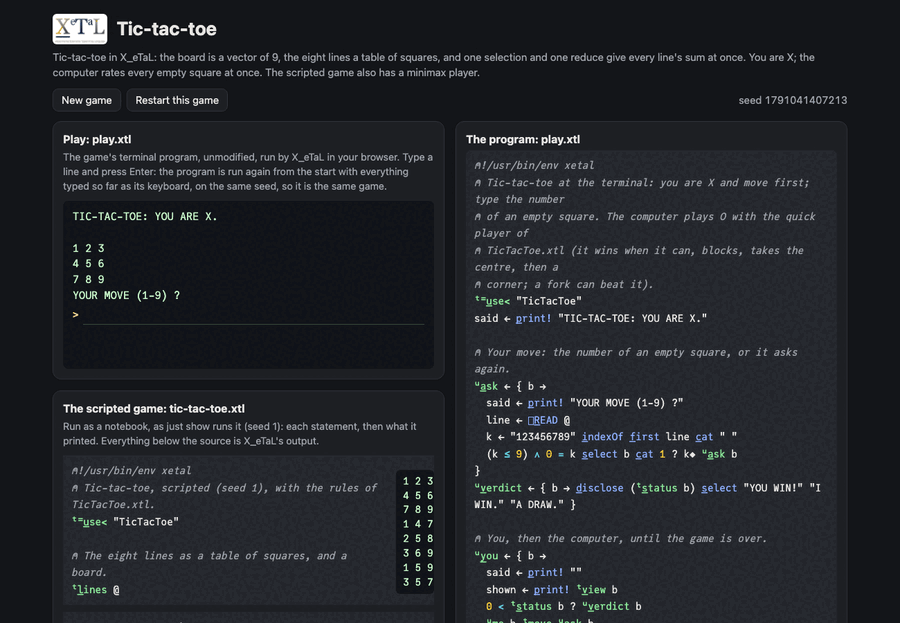
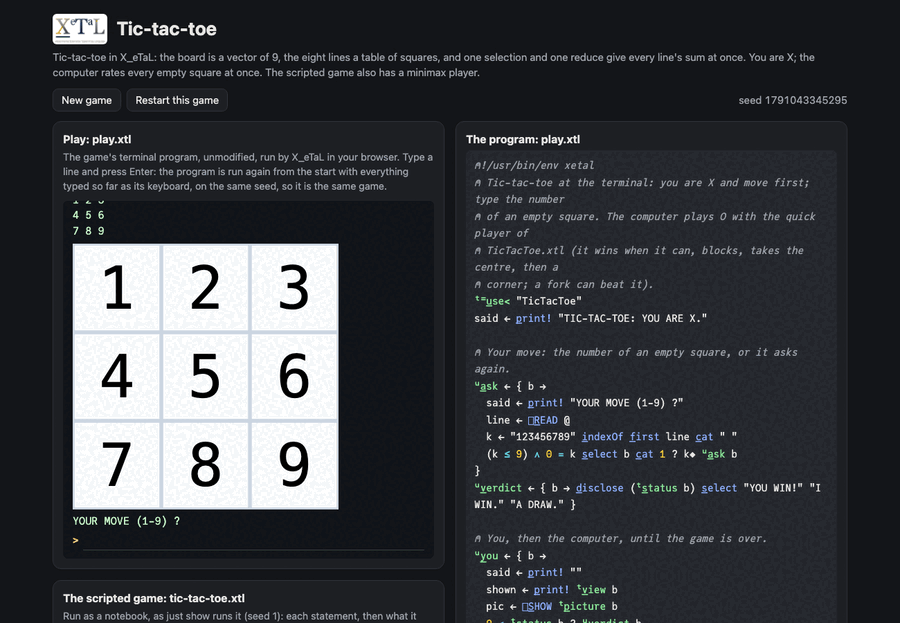
x-pictures: boards as pictures X_eTaL draws
- tic-tac-toe and robot-chase: l:p_icture, []G_RID of the character
  board (marks and empty squares' numbers; .R*PX), shown with []S_HOW
  each turn in play.xtl (and once in tic-tac-toe.xtl): the page draws
  it in the terminal or notebook, the command line writes it to
  work/draw/<slug>/; goldens unchanged but the libraries' export lists
- shared page CSS: pictures scaled up to read (their content is
  X_eTaL's)
- scripts/test-games.sh: the CLI's "drawn PATH" stderr lines (a
  machine's path) are not part of a golden
- tests: the two games' page tests check the pictures are grids of
  characters; the browser test counts pictures and fails a game whose
  play.xtl shows some when none appear
- docs/xetal-asks.md: []G_RID cannot show numbers in cells or choose a
  colour scale (2048, minesweeper counts); boards of numbers stay text
- plan, shell README, game READMEs, CHANGES; pages rebuilt

diff --git a/shared/microscope/microscope.css b/shared/microscope/microscope.css
@@ -136,3 +136,5 @@ canvas.pic.mid { width: min(100%, 260px); }
   font: .9rem/1.45 ui-monospace, "JuliaMono", Menlo, monospace; white-space: pre; overflow-x: auto; }
 /* An empty printed line keeps its height, as in a terminal. */
 .term > div:empty, .nb .out > div:empty { min-height: 1.5em; }
+/* Pictures X_eTaL draws ([]S_HOW) are scaled up to read; their content is X_eTaL's. */
+.term .pic svg, .nb .pic svg { width: min(100%, 384px); height: auto; display: block; }

diff --git a/games/robot-chase/web/tests/page.rs b/games/robot-chase/web/tests/page.rs
@@ -39,3 +39,13 @@ fn a_new_game_waits_for_its_first_line() {
     let t = session(&[(g.library_name, g.library)], g.play, &[], 7);
     assert!(t.waiting && t.error.is_none());
 }
+
+#[test]
+fn the_board_is_also_a_picture_x_etal_draws() {
+    let g = game();
+    let typed: Vec<String> = include_str!("../../expected/play.in").lines().map(str::to_string).collect();
+    let t = session(&[(g.library_name, g.library)], g.play, &typed, 1);
+    let pictures: Vec<&String> = t.lines.iter().filter_map(|l| match l { Line::Picture(svg) => Some(svg), _ => None }).collect();
+    assert!(!pictures.is_empty(), "play.xtl shows the board with []S_HOW");
+    assert!(pictures.iter().all(|svg| svg.starts_with("<svg") && svg.contains("<text")), "a grid of characters");
+}

diff --git a/games/tic-tac-toe/web/tests/page.rs b/games/tic-tac-toe/web/tests/page.rs
@@ -39,3 +39,13 @@ fn a_new_game_waits_for_its_first_line() {
     let t = session(&[(g.library_name, g.library)], g.play, &[], 7);
     assert!(t.waiting && t.error.is_none());
 }
+
+#[test]
+fn the_board_is_also_a_picture_x_etal_draws() {
+    let g = game();
+    let typed: Vec<String> = include_str!("../../expected/play.in").lines().map(str::to_string).collect();
+    let t = session(&[(g.library_name, g.library)], g.play, &typed, 1);
+    let pictures: Vec<&String> = t.lines.iter().filter_map(|l| match l { Line::Picture(svg) => Some(svg), _ => None }).collect();
+    assert!(!pictures.is_empty(), "play.xtl shows the board with []S_HOW");
+    assert!(pictures.iter().all(|svg| svg.starts_with("<svg") && svg.contains("<text")), "a grid of characters");
+}

diff --git a/docs/xetal-asks.md b/docs/xetal-asks.md
@@ -13,9 +13,28 @@ workaround in use.
 | Status | Kind | Ask | Games | Workaround |
 | ------ | ---- | --- | ----- | ---------- |
 | filed | feature | A terminal for interactive programs (the request: [`xetal-terminal-request.md`](xetal-terminal-request.md)); X_eTaL is building it as its saga 25 (at 70e129d: a run waits for typed lines and resumes, D50; the pane not yet): a resumable evaluator and a shared terminal pane in Rust and Yew, on the web-sw-tos model, replacing `window.prompt`. No WASI build of `xetal` (decided upstream) | all interactive games | pages run the engine (`xetal-play`) in Yew and replay the typed history on every line |
+| open | feature | `[]G_RID` of numbers: draw the numbers in the cells, and let a program choose the colour scale (logarithmic, or a few fixed colours) | 2048, minesweeper (counts), any numeric board | boards of numbers are printed as text; pictures are used for character and 0/1 boards |
 | open | bug | An executable program (shebang) that defines `l:` names is taken for a library: MC8 row 9 is never reported (still so at 70e129d) | all | `scripts/games.py check` rejects `l:` definitions in programs |
 
 ## Details
+
+### Numbers on a `[]G_RID` board
+
+`[]G_RID` draws a character matrix with each character in its cell
+and a 0/1 matrix as dark and light cells, which suits boards of marks
+(tic-tac-toe, robot chase) and of lights (lights out). A matrix of
+other numbers is drawn as colours from the least to the greatest, on a
+linear scale and without the numbers:
+
+```
+[]S_HOW []G_RID 4 4 r_eshape 0 2 4 8 16 32 64 128 256 512 1024 2048 0 0 2 4
+```
+
+shows a 2048 board as almost all one dark colour, with no way to read
+the tiles. Ask: an option (a variant or a left argument) to draw each
+number in its cell, and a choice of scale (logarithmic, or a small
+palette indexed by the value). Workaround: numeric boards are printed
+as text, and pictures are used only for character and 0/1 boards.
 
 ### The `xetal` binary for WebAssembly (WASI): withdrawn
 

diff --git a/docs/plan.md b/docs/plan.md
@@ -189,7 +189,7 @@ saga 25); every golden, page test and browser test passed unchanged.
 | - | --------- | -------- |
 | 1 | tic-tac-toe | DONE: TicTacToe.xtl (board a vector of 9; the lines an 8 by 3 index table, every line's sum by one selection and one reduce; the quick player rates all squares at once through a 9 by 8 square-line table; minimax by recursion with `e_ach`, too slow from an empty board for the browser (17 s natively), so shown mid-game); play.xtl (you are X); the shared page. |
 | 2 | shut-the-box | DONE: ShutTheBox.xtl (all 512 subsets a 9 by 512 bit matrix by `e_ncode`, their sums one inner product, moves the columns that fit and make the roll, rows by `o_\`; a high-tiles player); play.xtl lists the moves and asks for tiles; the scripted game's high-tiles player shuts the box; the shared page. |
-| 3 | x-pictures | boards as pictures X_eTaL draws (`[]S_HOW []G_RID`) in the shared page's terminal and notebook, for the grid games; an ask if X_eTaL's pictures cannot do what a board needs |
+| 3 | x-pictures | DONE: `[]S_HOW []G_RID` boards on the shared page: tic-tac-toe and robot chase show their boards as pictures X_eTaL draws beside the text (`l:p_icture`); the page scales them up (CSS only); the runner leaves out the command line's "drawn PATH" stderr lines; page tests and the browser test check that the pictures appear. Ask filed: numbers in `[]G_RID` cells and a colour scale (2048, counts). |
 | 4 | minesweeper | counts by eight rotations; reveal by flood fill to a fixed point; page |
 | 5 | 2048 | a move as compress, merge, pad, oriented by `r_ev` and transposition; played at the terminal (w a s d) |
 | 6 | lights-out | play by XOR with a plus stencil; Solve over GF(2); page |

diff --git a/shared/microscope/README.md b/shared/microscope/README.md
@@ -47,7 +47,9 @@ same seed; `?seed=N` in the address replays game N), the notebook
 (`SLUG.xtl` on seed 1, as `just show`), and the program and library
 sources, decorated by X_eTaL's renderer. Its only controls are New
 game and Restart. Pictures appear only when the program shows them
-(`[]S_HOW`). The other modules (`canvas`, `cells`, `colour`, stage
+(`[]S_HOW`, typically `[]S_HOW []G_RID board`): the command line writes
+them to `work/draw/<slug>/` (the tests ignore its "drawn PATH" lines),
+the page shows them in the terminal or the notebook, scaled up to read. The other modules (`canvas`, `cells`, `colour`, stage
 chips and panels in `chrome`) came from X_eTaL-demos; a game page must
 not use them to draw what the game computes.
 

diff --git a/CHANGES.md b/CHANGES.md
@@ -12,6 +12,8 @@ archive), `vendor` a refresh of the vendored X_eTaL.
 
 ## 2026-10-03
 
+- 09:04 `feat` Boards as pictures X_eTaL draws: tic-tac-toe and robot chase show `[]S_HOW []G_RID` of their boards each turn (the page scales them up; the runner ignores the CLI's "drawn PATH" lines); tests check they appear; ask filed for numbers in `[]G_RID` cells and a colour scale.
+
 - 08:55 `chore` Saga step shut-the-box completed.
 
 - 08:51 `game` Shut the box, live: every subset of the tiles at once (a 9 by 512 bit matrix, all sums by one inner product, the moves by one mask); the terminal game lists the moves; the shared page.

diff --git a/games/tic-tac-toe/README.md b/games/tic-tac-toe/README.md
@@ -65,6 +65,11 @@ l:v_alue := { b ->
   natively), so the terminal game uses the quick player and the
   scripted game shows minimax on a position with five empty squares.
 
+The board is also shown as a picture X_eTaL draws: `l:p_icture` is
+`[]G_RID` of the 3 by 3 character board, and `play.xtl` shows it with
+`[]S_HOW` each turn (the page draws it in the terminal; the command
+line writes it to `work/draw/tic-tac-toe/`).
+
 ## Play it
 
 ```bash

diff --git a/games/robot-chase/README.md b/games/robot-chase/README.md
@@ -82,6 +82,10 @@ Read each line right to left.
 - A new game: 13 different random squares are the first 13 of the
   order (`g_rade`) of 256 random keys.
 
+The board is also a picture X_eTaL draws (`l:p_icture`, `[]G_RID` of
+the 16 by 16 character board), shown with `[]S_HOW` each turn: in the
+page's terminal, or as files in `work/draw/robot-chase/`.
+
 ## Play it
 
 ```bash
